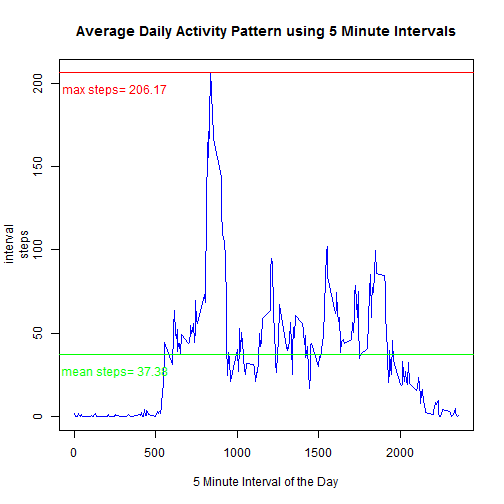
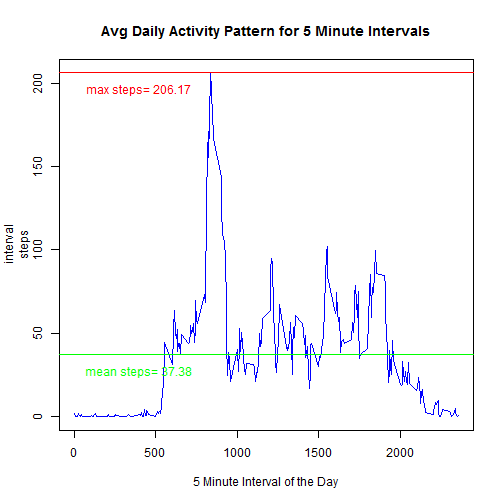
Moved the abline to the right. Trying to figure out how to make it  smaller still.  Changes to be committed: 	modified:   PA1_template.Rmd 	modified:   PA1_template.docx 	modified:   PA1_template.html 	modified:   PA1_template.md 	modified:   figure/unnamed-chunk-12-1.png 	modified:   figure/unnamed
Untracked files:
	.RData
	.Rhistory

Changed region(s): [[0.1488, 0.0298, 0.9226, 0.0893], [0.119, 0.1488, 0.3869, 0.2083], [0.119, 0.7143, 0.3869, 0.744]]

diff --git a/PA1_template.html b/PA1_template.html
@@ -339,10 +339,10 @@ print(p)
      ,xlab=&quot;5 Minute Interval of the Day&quot;
      ,col=&quot;blue&quot;
 )
-title (&quot;Average Daily Activity Pattern using 5 Minute Intervals&quot;)
+title (&quot;Avg Daily Activity Pattern for 5 Minute Intervals&quot;)
 </code></pre>
 
[2 lines of base64/hex data omitted]
 
 <p>The 5 minute interval that has the maximun average number of steps is:</p>
 
@@ -368,12 +368,12 @@ print(mean_avg)
      ,xlab=&quot;5 Minute Interval of the Day&quot;
      ,col=&quot;blue&quot;
 )
-title (&quot;Average Daily Activity Pattern using 5 Minute Intervals&quot;)
-abline(col=&quot;red&quot;, ,text(250,(max_avg - 10 ), paste(&quot;max steps=&quot;,round(max_avg,digits=2)), col = &quot;red&quot;), h=max_avg)
-abline(col=&quot;green&quot;, ,text(250,(mean_avg - 10 ), paste(&quot;mean steps=&quot;,round(mean_avg,digits=2)), col = &quot;Green&quot;), h=mean_avg)
+title (&quot;Avg Daily Activity Pattern for 5 Minute Intervals&quot;)
+abline(col=&quot;red&quot;, ,text(400,(max_avg - 10 ), paste(&quot;max steps=&quot;,round(max_avg,digits=2)), col = &quot;red&quot;), h=max_avg)
+abline(col=&quot;green&quot;, ,text(400,(mean_avg - 10 ), paste(&quot;mean steps=&quot;,round(mean_avg,digits=2)), col = &quot;Green&quot;), h=mean_avg)
 </code></pre>
 
[2 lines of base64/hex data omitted]
 
 <h2>Imputing missing values</h2>
 
@@ -386,7 +386,7 @@ print(number_missing_values)
 <pre><code>## [1] 2304
 </code></pre>
 
-<p>Next, we impute the missing values into a new data set called <strong>new_data</strong>. First we create <strong>new_data</strong> as a copy of <strong>data</strong>. Now the the strategy used to populate the missing step values is to calculate the mean value of its interval during the day across the entire data set. This information is already stored in the dataset <strong>mean_steps_per_interval</strong>. We loop over the rows in <strong>data</strong> and copy the step value if it exists or replace it with the calculated mean if is missing with the value for that interval in <strong>mean_steps_per_interval</strong>.</p>
+<p>Next, we impute the missing values into a new data set called <strong>new_data</strong>. First we create <strong>new_data</strong> as a copy of <strong>data</strong>. Now the strategy used to populate the missing step values is to calculate the mean value of its interval during the day across the entire data set. This information is already stored in the dataset <strong>mean_steps_per_interval</strong>. We loop over the rows in <strong>data</strong> and copy the step value if it exists or replace it with the calculated mean if is missing with the value for that interval in <strong>mean_steps_per_interval</strong>.</p>
 
 <pre><code class="r">new_data &lt;- data    
 x &lt;- mean_steps_per_interval # create a temporary df x
@@ -459,7 +459,8 @@ The mean new steps per day for new_data is:</p>
 <pre><code>## [1] 10766.19
 </code></pre>
 
-<p>To better see the differences, let us make a panel plot of the new and original histograms for steps per day. We will add a new factor column <strong>imputed</strong>, which can be Yes or No, to the <strong>steps_by_day</strong> and new_steps_by_day** DF&#39;s.</p>
+<p>To better see the differences, let us make a panel plot of the new and original histograms for steps per day. We will add a new factor column <strong>imputed</strong>, which can be Yes or No, 
+to the <strong>steps_by_day</strong> and the <strong>new_steps_by_day</strong> DF&#39;s.</p>
 
 <pre><code class="r">steps_by_day$imputed &lt;- &quot;No&quot;
 new_steps_by_day$imputed &lt;- &quot;Yes&quot;
@@ -504,7 +505,7 @@ print(p)
 
 <h2>Are there differences in activity patterns between weekdays and weekends?</h2>
 
-<p>First, let us add a factor columns to the new_data DF for the day of the week and the week day type weekDay or weekEnd. We use a function called dayType to determine if it is a week day or weekend.</p>
+<p>First, let us add a factor column to each of the new_data DF for the day of the week and the week day type weekDay or weekEnd. We use a function called dayType to determine if it is a week day or weekend.</p>
 
 <pre><code class="r">dayType &lt;- function(weekDay){
     if (weekDay %in% c(&quot;Mon&quot;,&quot;Tue&quot;,&quot;Wed&quot;,&quot;Thu&quot;,&quot;Fri&quot;)) dayType &lt;- &quot;weekDay&quot;

diff --git a/PA1_template.md b/PA1_template.md
@@ -169,7 +169,7 @@ plot(mean_steps_per_interval, aes(interval, steps), type="l"
      ,xlab="5 Minute Interval of the Day"
      ,col="blue"
 )
-title ("Average Daily Activity Pattern using 5 Minute Intervals")
+title ("Avg Daily Activity Pattern for 5 Minute Intervals")
 ```
 
 ![plot of chunk unnamed-chunk-9](figure/unnamed-chunk-9-1.png) 
@@ -203,9 +203,9 @@ plot(mean_steps_per_interval, aes(interval, steps), type="l"
      ,xlab="5 Minute Interval of the Day"
      ,col="blue"
 )
-title ("Average Daily Activity Pattern using 5 Minute Intervals")
-abline(col="red", ,text(250,(max_avg - 10 ), paste("max steps=",round(max_avg,digits=2)), col = "red"), h=max_avg)
-abline(col="green", ,text(250,(mean_avg - 10 ), paste("mean steps=",round(mean_avg,digits=2)), col = "Green"), h=mean_avg)
+title ("Avg Daily Activity Pattern for 5 Minute Intervals")
+abline(col="red", ,text(400,(max_avg - 10 ), paste("max steps=",round(max_avg,digits=2)), col = "red"), h=max_avg)
+abline(col="green", ,text(400,(mean_avg - 10 ), paste("mean steps=",round(mean_avg,digits=2)), col = "Green"), h=mean_avg)
 ```
 
 ![plot of chunk unnamed-chunk-12](figure/unnamed-chunk-12-1.png) 
